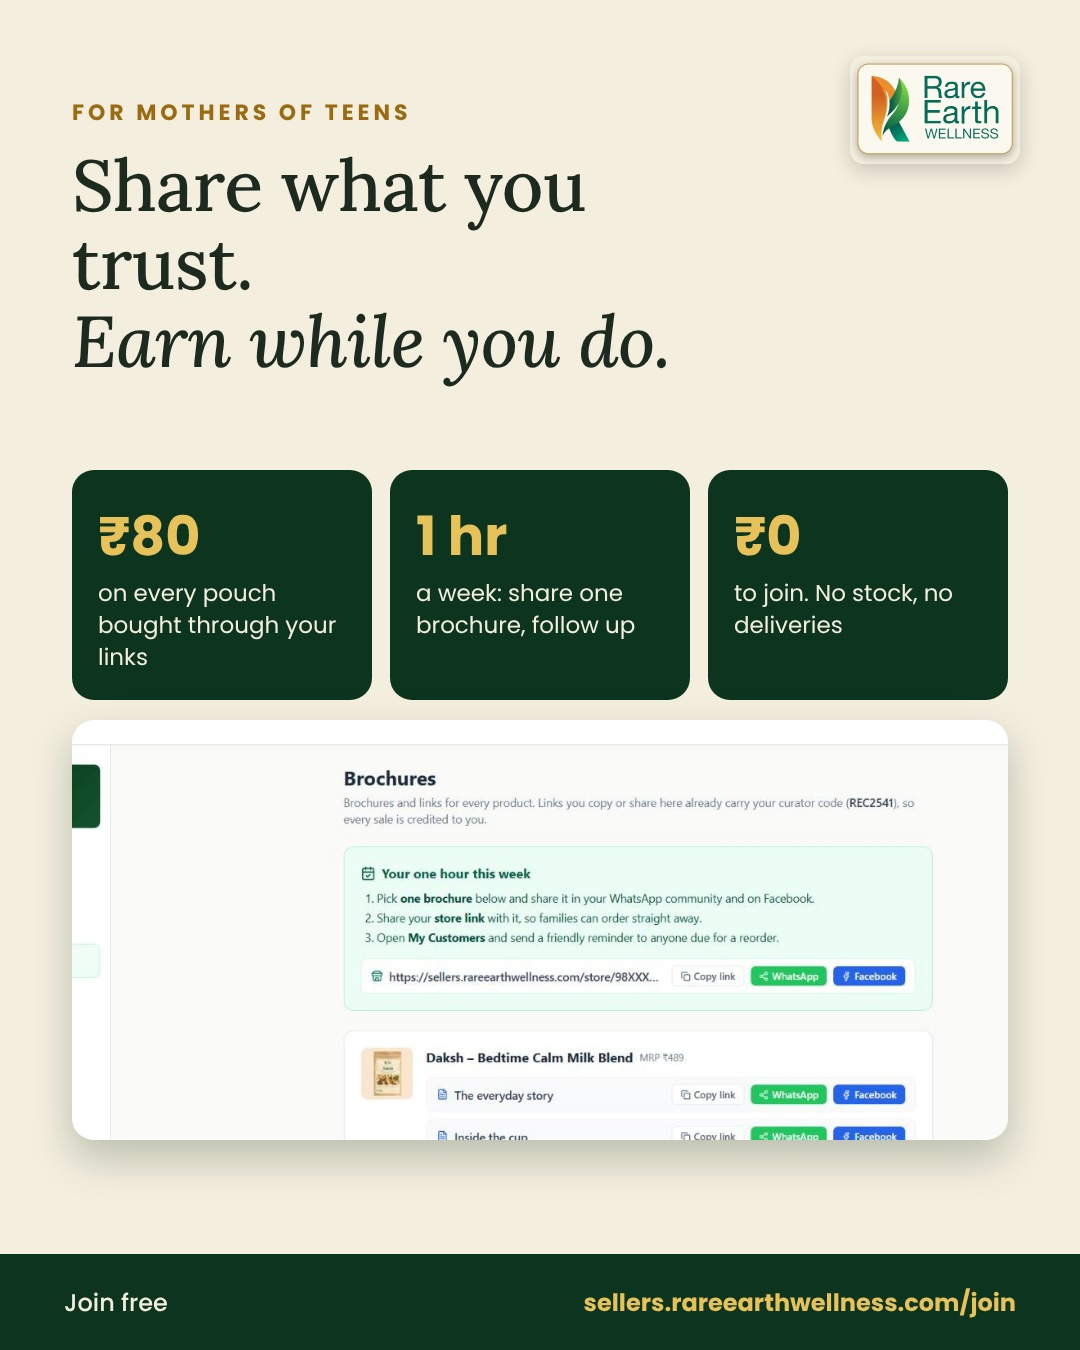
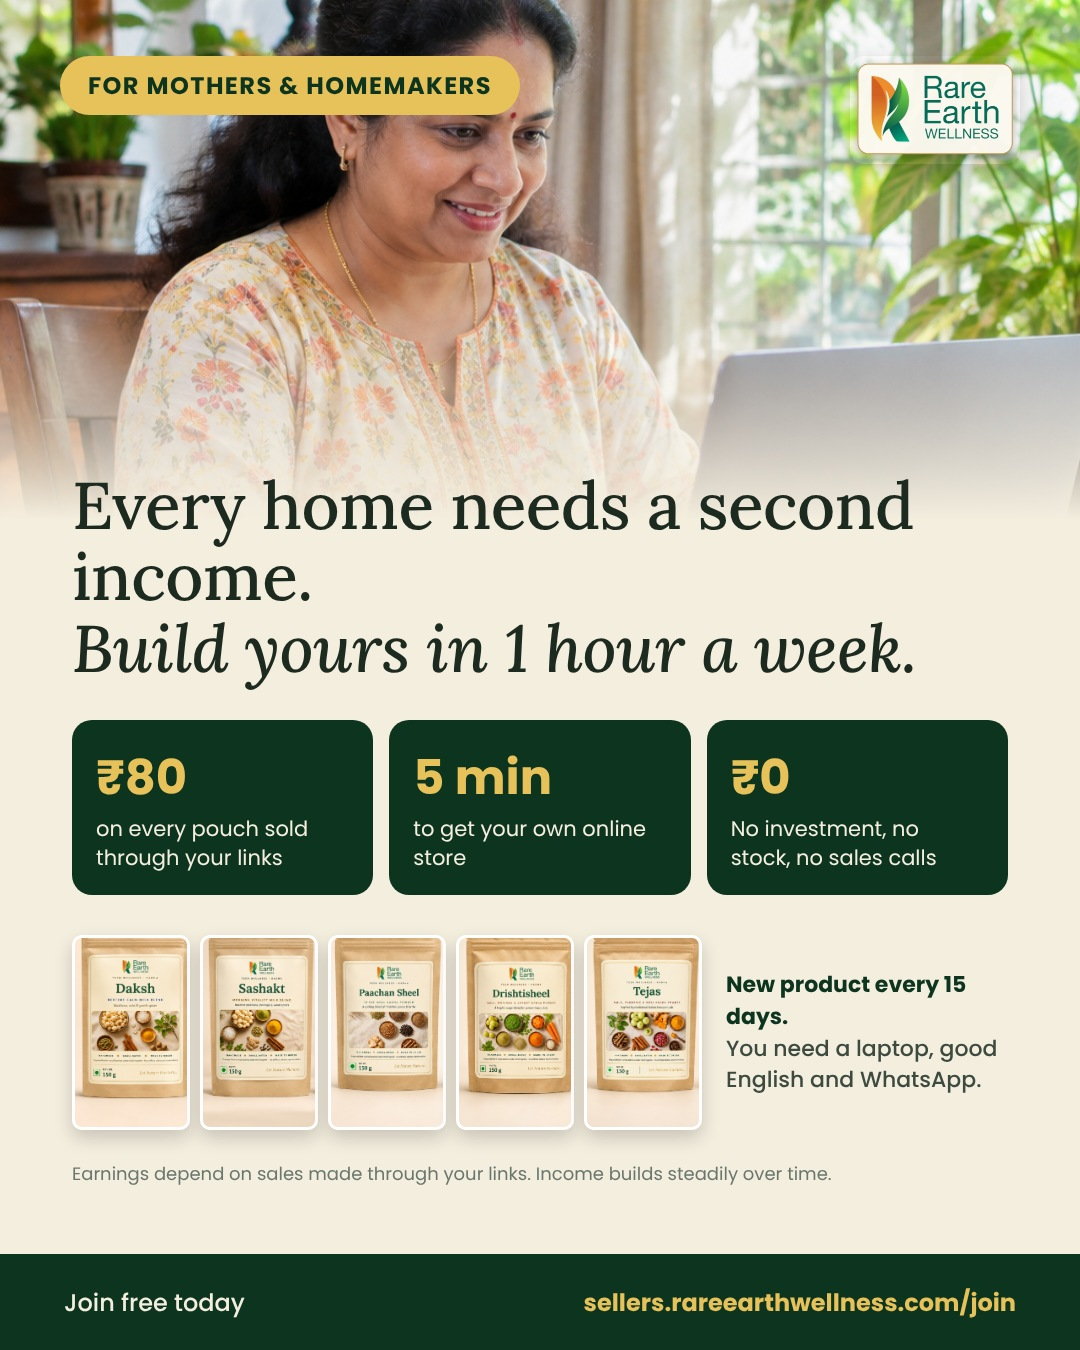
C v2 review (temporary)
Claude-Session: https://claude.ai/code/session_016rkx1DK1G2d91WsEwkoYA4

diff --git a/tmpxfer/review-C.html b/tmpxfer/review-C.html
@@ -1,0 +1,4 @@
+<!doctype html><html><head><meta charset="utf-8"><title>Review: C seller image</title><style>body{margin:0;background:#1d2a20;font-family:system-ui;color:#f4eedf;padding:24px}h1{font-weight:500;margin:0 0 6px}p{margin:0 0 20px;color:#cfe0d2}.row{display:flex;gap:24px;align-items:flex-start;flex-wrap:wrap}.row div{font-size:14px;color:#cfe0d2}.row img{display:block;border-radius:10px;margin-top:6px}</style></head><body>
+<h1>5 of 8 · C · Seller single image</h1>
+<p>Same picture in two shapes: feed (4:5) and Stories/Reels (9:16). Rebuilt to match the new seller video.</p>
+</body></html>
